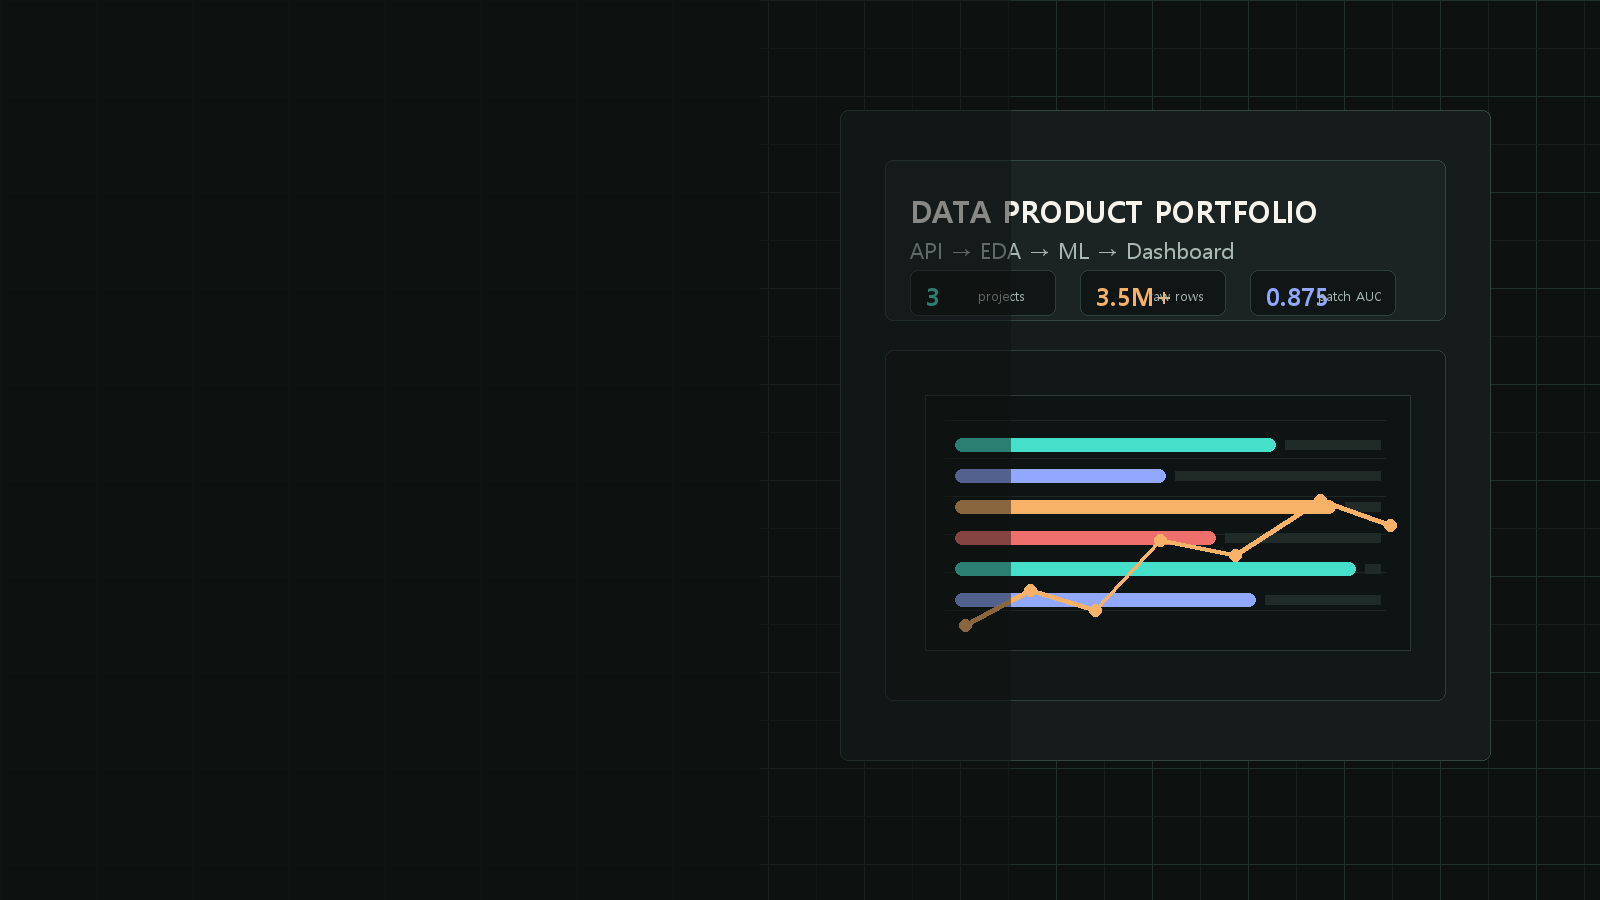
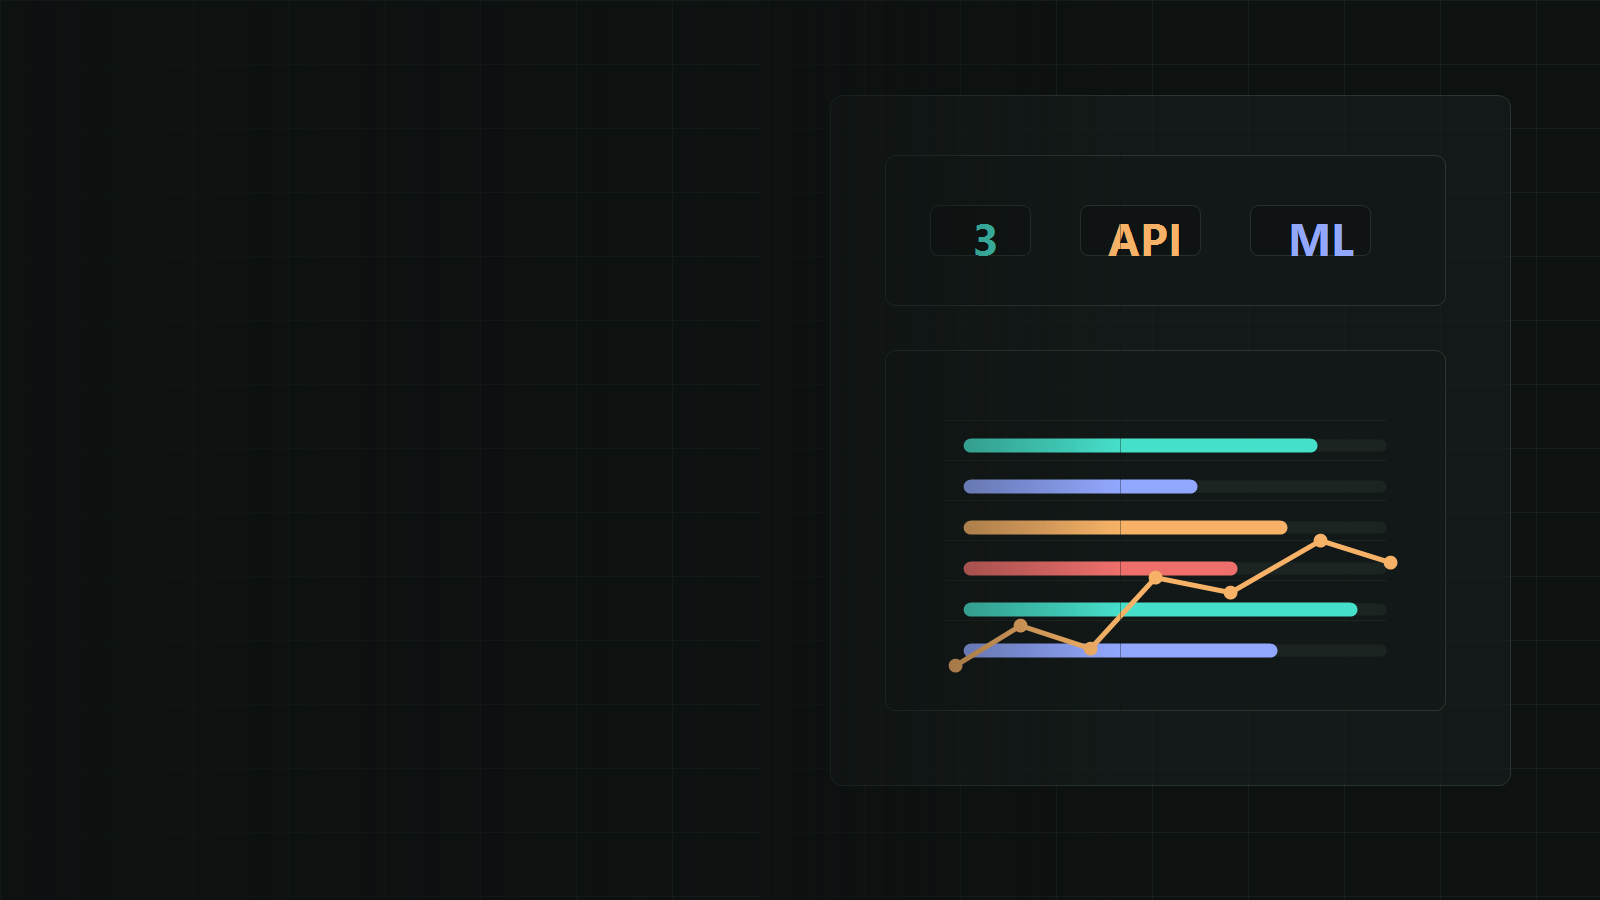
style: refine portfolio identity copy

Changed region(s): [[0.5938, 0.4667, 0.875, 0.7467], [0.5625, 0.2178, 0.875, 0.3422]]

diff --git a/index.html b/index.html
@@ -3,17 +3,17 @@
   <head>
     <meta charset="UTF-8" />
     <meta name="viewport" content="width=device-width, initial-scale=1.0" />
-    <title>박상현 Data Portfolio</title>
+    <title>박상현 | 데이터 분석가 포트폴리오</title>
     <meta
       name="description"
-      content="API 데이터 수집, EDA, 머신러닝, 웹 대시보드 배포까지 연결한 데이터 분석 포트폴리오"
+      content="API 데이터 수집, EDA, 머신러닝, 웹 대시보드 배포까지 연결한 데이터 분석가 포트폴리오"
     />
     <link rel="stylesheet" href="./styles.css" />
   </head>
   <body>
     <header class="site-header">
-      <a class="brand" href="#top" aria-label="박상현 portfolio home">
-        <span class="brand-mark">F</span>
+      <a class="brand" href="#top" aria-label="박상현 포트폴리오 홈">
+        <span class="brand-mark">P</span>
         <span>박상현</span>
       </a>
       <nav class="site-nav" aria-label="주요 섹션">
@@ -26,10 +26,10 @@
     <main id="top">
       <section class="hero" aria-labelledby="hero-title">
         <div class="hero-inner">
-          <p class="eyebrow">Data Analyst Portfolio</p>
+          <p class="eyebrow">데이터 분석가 포트폴리오</p>
           <h1 id="hero-title">
             <span>박상현</span>
-            <span>Data Portfolio</span>
+            <span>포트폴리오</span>
           </h1>
           <p class="hero-copy">
             공개 API와 게임·콘텐츠 데이터를 수집하고, EDA와 모델링을 거쳐
@@ -49,15 +49,15 @@
           <dl class="hero-proof" aria-label="포트폴리오 핵심 수치">
             <div>
               <dt>3</dt>
-              <dd>Portfolio projects</dd>
+              <dd>완성 프로젝트</dd>
             </div>
             <div>
               <dt>API</dt>
-              <dd>Collection pipeline</dd>
+              <dd>수집 파이프라인</dd>
             </div>
             <div>
               <dt>ML</dt>
-              <dd>Prediction models</dd>
+              <dd>예측 모델링</dd>
             </div>
           </dl>
         </div>
@@ -65,7 +65,7 @@
 
       <section class="signal-section" aria-labelledby="signal-title">
         <div class="section-heading">
-          <p class="eyebrow">Work Signals</p>
+          <p class="eyebrow">작업 범위</p>
           <h2 id="signal-title">분석 결과가 서비스 화면까지 이어지는 프로젝트</h2>
         </div>
         <div class="signal-grid">
@@ -268,7 +268,7 @@
     </main>
 
     <footer class="site-footer">
-      <span>박상현 Data Portfolio</span>
+      <span>박상현 포트폴리오</span>
       <span>API · EDA · ML · Dashboard</span>
     </footer>
 

diff --git a/styles.css b/styles.css
@@ -103,7 +103,7 @@ a {
   align-items: center;
   padding: 86px 40px 72px;
   background-image:
-    linear-gradient(90deg, rgba(13, 17, 16, 0.98) 0%, rgba(13, 17, 16, 0.86) 38%, rgba(13, 17, 16, 0.2) 100%),
+    linear-gradient(90deg, rgba(13, 17, 16, 0.99) 0%, rgba(13, 17, 16, 0.92) 44%, rgba(13, 17, 16, 0.68) 100%),
     url("./assets/hero-data-product.png");
   background-position: center;
   background-size: cover;
@@ -144,6 +144,8 @@ h2 {
   margin-bottom: 0;
   font-size: 2.3rem;
   line-height: 1.18;
+  word-break: keep-all;
+  overflow-wrap: break-word;
 }
 
 h3 {
@@ -240,7 +242,7 @@ h3 {
 }
 
 .section-heading h2 {
-  max-width: 780px;
+  max-width: 960px;
 }
 
 .split-heading {
@@ -480,14 +482,16 @@ h3 {
 
   .site-nav {
     width: 100%;
-    justify-content: space-between;
+    flex-wrap: wrap;
+    justify-content: flex-start;
+    gap: 24px;
   }
 
   .hero {
     min-height: 80vh;
     padding: 76px 22px 54px;
     background-image:
-      linear-gradient(90deg, rgba(13, 17, 16, 0.98) 0%, rgba(13, 17, 16, 0.94) 58%, rgba(13, 17, 16, 0.58) 100%),
+      linear-gradient(90deg, rgba(13, 17, 16, 0.99) 0%, rgba(13, 17, 16, 0.97) 58%, rgba(13, 17, 16, 0.82) 100%),
       url("./assets/hero-data-product.png");
     background-position: 62% center;
   }

diff --git a/README.md b/README.md
@@ -1,4 +1,4 @@
-# 박상현 Data Portfolio Site
+# 박상현 데이터 분석가 포트폴리오 사이트
 
 API 수집, EDA, 머신러닝, 웹 대시보드 배포 프로젝트를 한 화면에서 소개하는 정적 포트폴리오 사이트다.
 
